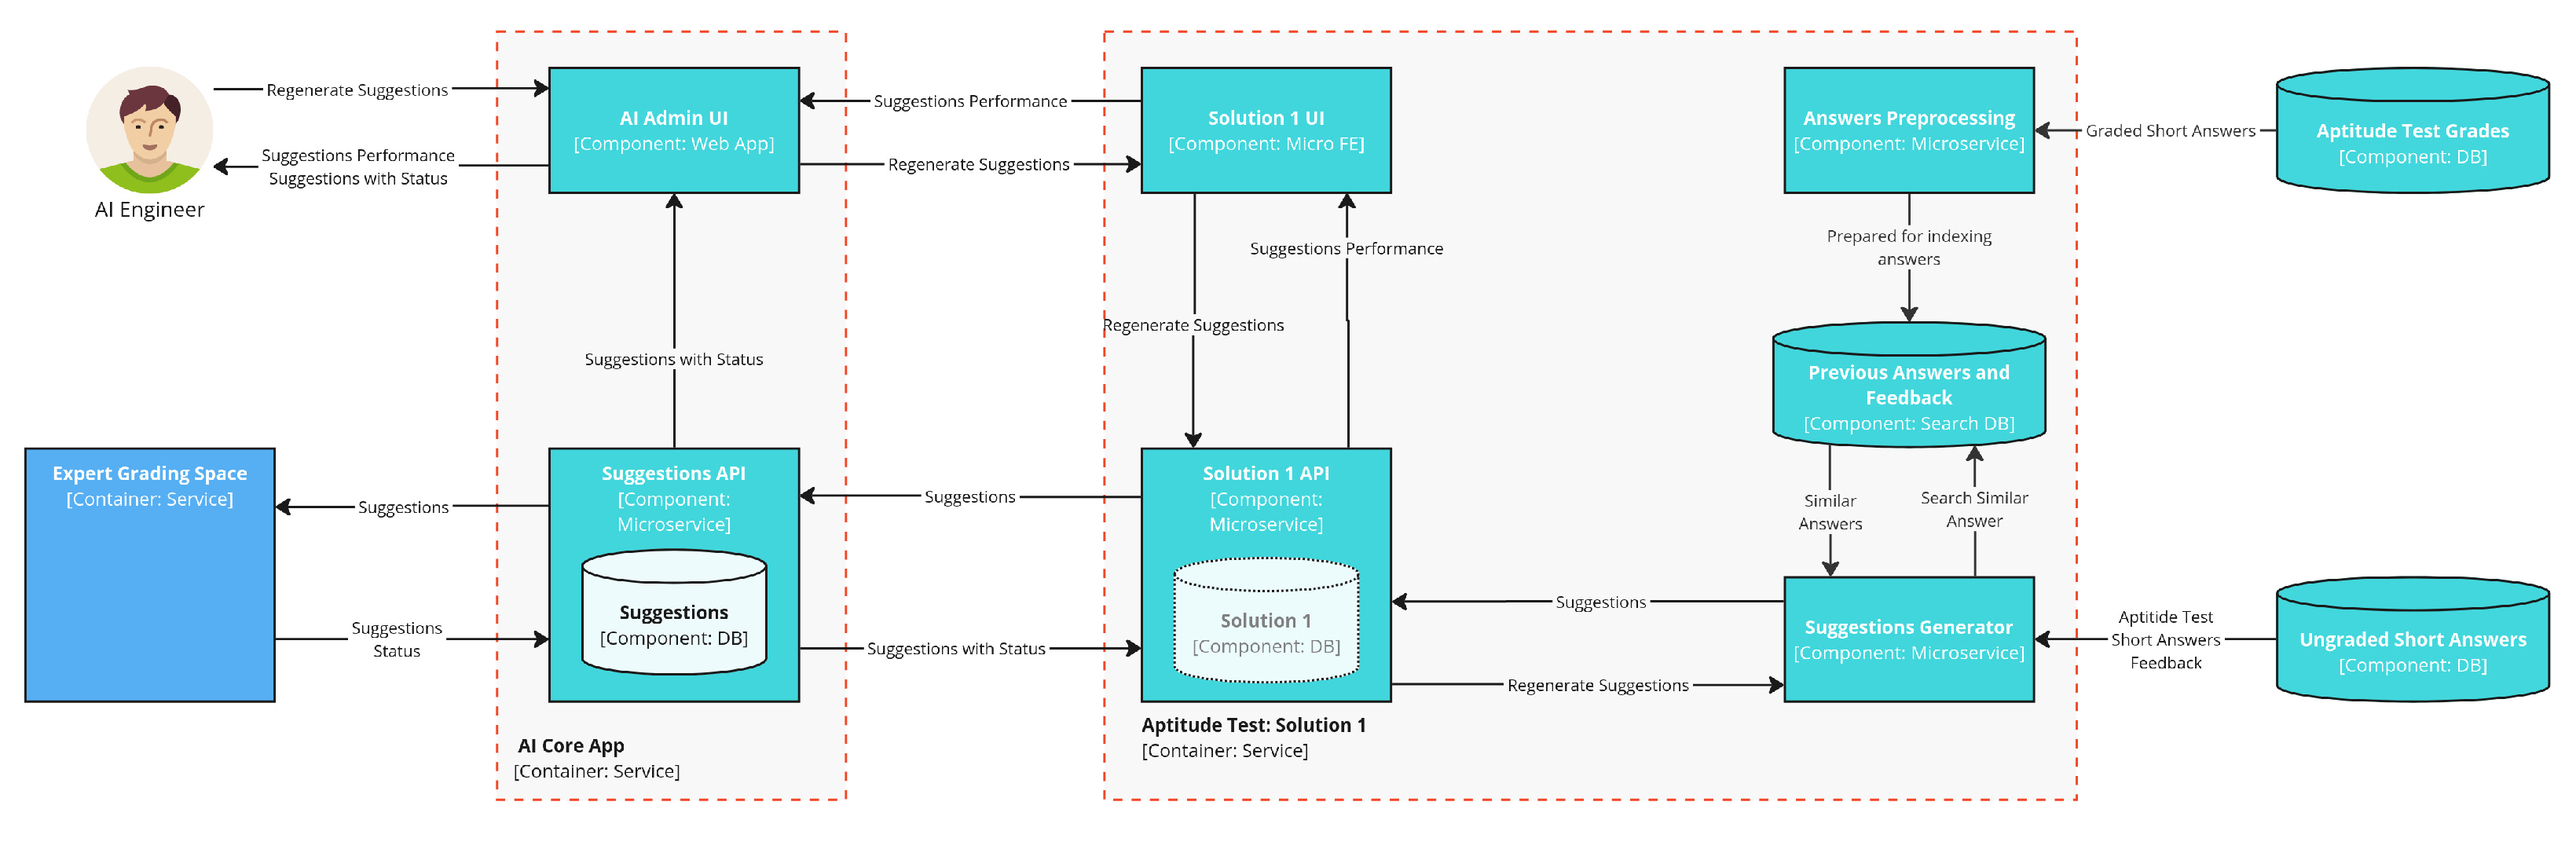
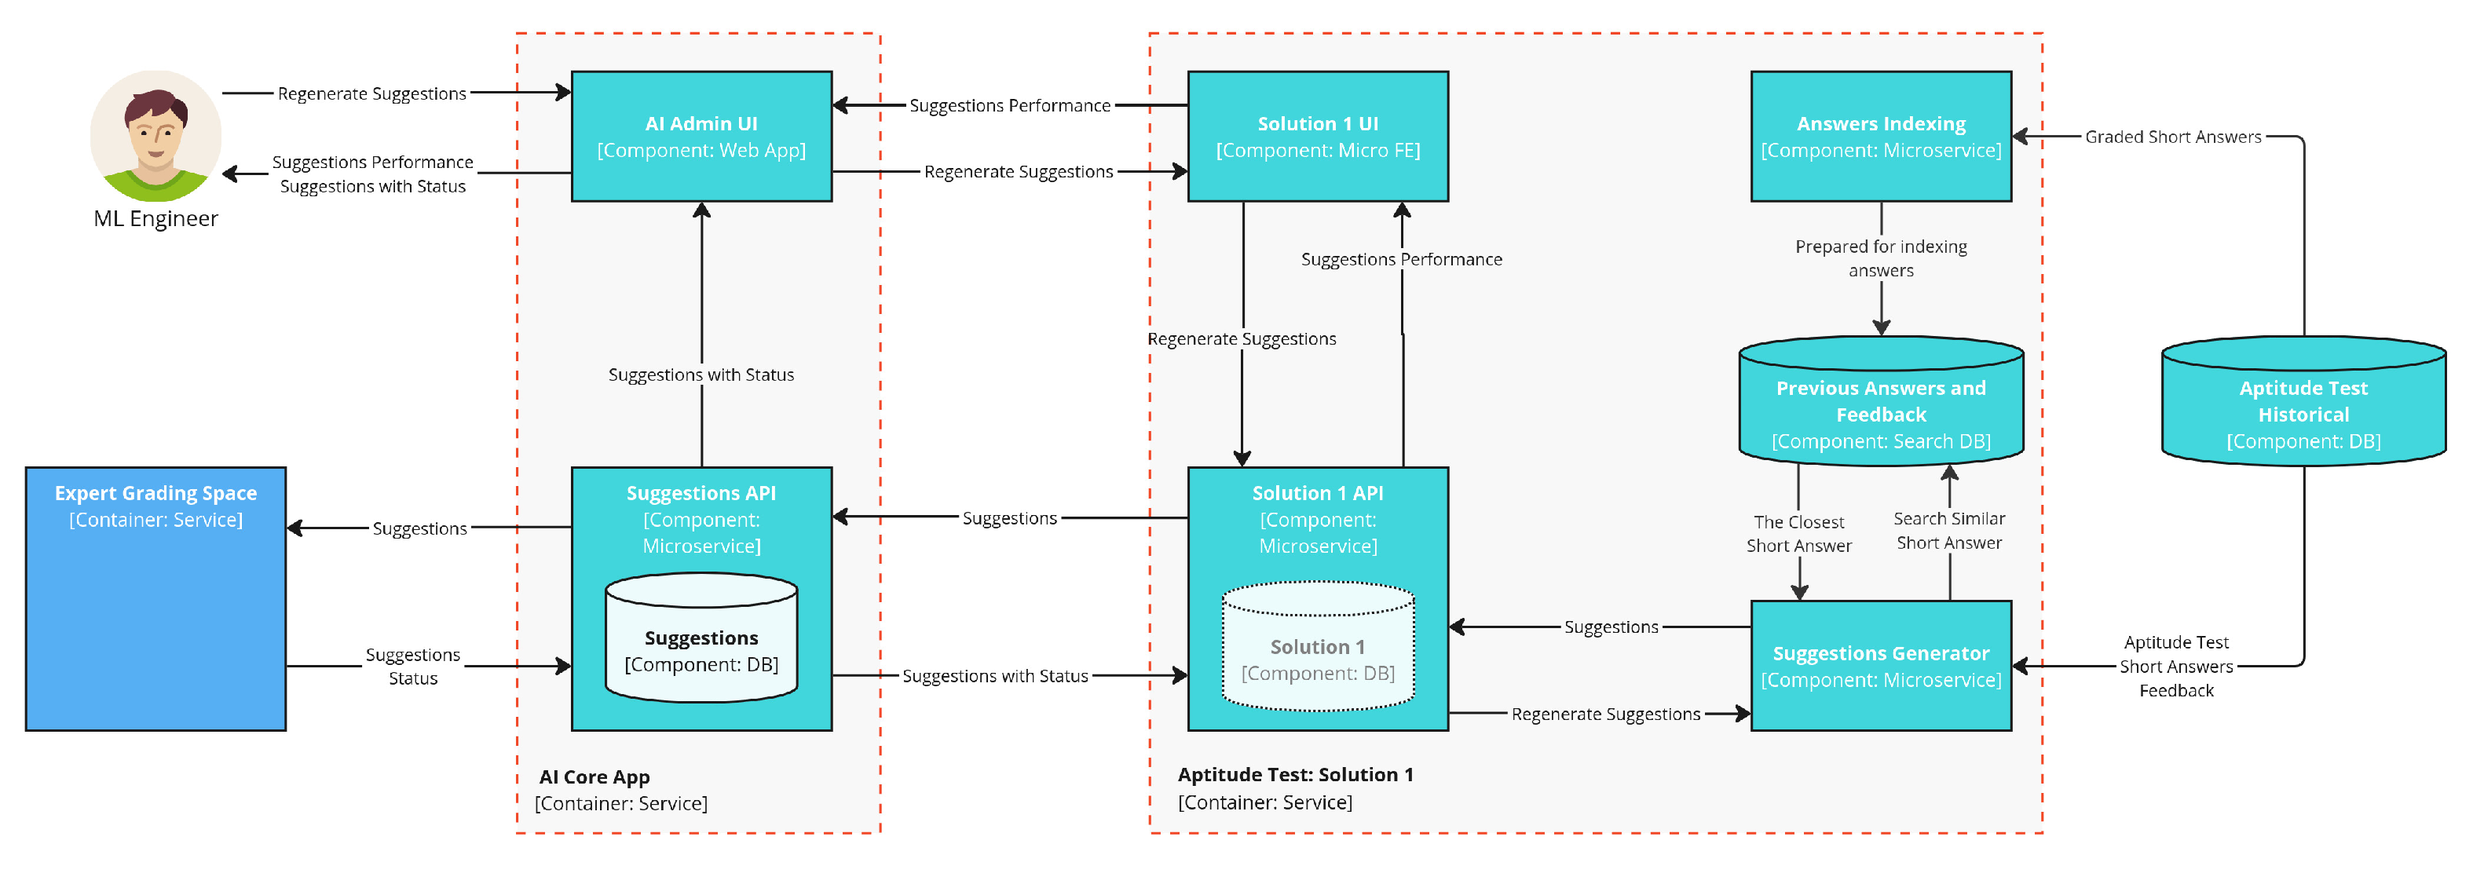
Solution 1: minor fixes

diff --git a/README.md b/README.md
@@ -746,24 +746,26 @@ Short-answer responses are typically concise and follow predictable patterns, ma
 
 The workflow describes an AI-powered grading workflow for short-answer responses, integrating various services, databases, and user interactions. Here's a step-by-step breakdown:
 
-1. **Submission & Preprocessing**
-   - Short-answer responses from the **Aptitude Test** are stored in the **Architecture Exam Historical DB**.
-   - The **Answers Preprocessing Microservice** prepares these responses for indexing.
-2. **Retrieving Similar Answers**
-   - The **Previous Answers and Feedback Search DB** indexes past graded answers.
-   - The **Suggestions Generator Microservice** searches for similar past responses and retrieves them for grading reference.
-3. **Generating Suggestions**
-   - The **Solution 1 API Microservice** processes retrieved answers and generates **grade & feedback suggestions** based on past similar answers.
-   - These suggestions are stored in the **Suggestions DB** and sent to the **Suggestions API Microservice**.
-4. **Expert Review & Refinement**
-   - Suggestions are sent to the **Expert Grading Space** for human validation.
+1. **Answer Indexing**
+
+   - Short-answer responses from the Aptitude Test with feedback and grades are stored in the **Aptitude Test Historical DB**.
+   - The **Answers Indexing** Microservice prepares these responses for indexing.
+   - The **Previous Answers and Feedback Search DB** indexes past graded answers in full-text search index.
+2. **Generating Suggestions**
+
+   - The **Suggestions Generator** microservice captures submitted ungraded short answers from ****Aptitude Test Historical** DB, searches for similar past responses and retrieves them for grading reference.
+   - These suggestions are stored in the **Suggestions** DB
+3. **Expert Review & Refinement**
+
+   - Suggestions are requested by the **Expert Grading Space** for human validation. **Solution 1 API** microservice fetches the suggestions from **Suggestions** db.
    - Experts review and adjust the suggestions, improving grading accuracy.
    - The **Suggestions API** updates suggestion statuses based on expert feedback.
-5. **AI Oversight & Continuous Improvement**
-   - The **AI Admin UI Web App** allows **AI Engineers** to monitor **suggestion performance** and request **regeneration of suggestions** if needed.
-   - Regenerated suggestions go back through the **Solution 1 UI** and **Solution 1 API** for processing.
-6. **Feedback Loop for Optimization**
-   - Validated grading decisions continuously improve the **search ranking and grading model**, enhancing the accuracy of future suggestions.
+4. **Continuous Improvement**
+
+   - The **AI Admin UI Web App** allows **ML Engineers** to monitor **suggestion performance** and request **regeneration of suggestions** if needed.
+5. **Feedback Loop for Optimization**
+
+   - Validated grading decisions continuously improve the search ranking and grading model, enhancing the accuracy of future suggestions.
 
 This workflow automates grading while incorporating expert oversight, ensuring efficiency, accuracy, and continuous improvement.
 
@@ -776,6 +778,7 @@ This workflow automates grading while incorporating expert oversight, ensuring e
 #### Definitions
 
 1. **Aptitude test feedback (Solution 1a Database)**: This database stores information about historical short answers (including their grades and feedback). The records are indexed for full-text search of short answer content.
+
    - **Aptitude test submission ID (PK, FK)** – Identifies short answer relation to an aptitude test submission.
    - **Question ID (PK, FK)** – Identifies which question of the aptitude test the short answer was submitted for.
    - **Question** – Stores the question the answer was submitted for.
@@ -794,21 +797,21 @@ The diagram presents a structured **workflow for AI-assisted grading of short-an
 
 1. **Suggestions Generation**
 
-   - The **AI Suggestions Generator Microservice** captures the submitted answer.
-   - The answer is **preprocessed** (cleaned up for better indexing).
-   - The system **retrieves similar past answers** from historical data.
-   - Based on the assessment history, the AI **suggests a grade and feedback**.
+   - The **AI Suggestions Generator** Microservice captures the submitted answer.
+   - The answer is preprocessed (cleaned up for better indexing).
+   - The system retrieves similar past answers from historical data.
+   - Based on the assessment history, the system suggests a grade and feedback.
 2. **Expert Grading Based on Suggestions**
 
-   - A **human expert** reviews the submitted answer along with AI-generated suggestions.
-   - The expert **grades the answer**, and accepts, updates or provide their own feedback, finalizing the answer score.
-   - The **graded aptitude test** is recorded.
-   - The **suggestion’s accuracy** is assessed, feeding back into the system for improvement.
+   - An expert architect reviews the submitted answer along with AI-generated suggestions.
+   - The expert grades the answer, and accepts, updates or provide their own feedback.
+   - The graded aptitude test is recorded.
+   - The suggestion’s accuracy is assessed, feeding back into the system for improvement.
 3. **Registering New Grade and Feedback**
 
-   - The assigned **grade and feedback are captured**.
+   - The assigned grade and feedback are captured.
    - The answer is preprocessed for indexing.
-   - The **indexed feedback** is stored in the system, enhancing future AI grading accuracy.
+   - The indexed feedback is stored in the system, enhancing future AI grading accuracy.
 
 This **continuous feedback loop** ensures that the AI grading system improves over time, refining its ability to suggest accurate grades and relevant feedback.
 
@@ -816,13 +819,13 @@ This **continuous feedback loop** ensures that the AI grading system improves ov
 
 ### Idea
 
-While **Solution 1a** efficiently automates grading using **full-text search**, it is limited by keyword-based matching, which may overlook nuanced differences in student responses. **Solution 1b** addresses this by leveraging **LLMs and vector search** to improve **grading accuracy, feedback relevance, and adaptability over time**.
+While [Solution 1a](#aptitude-test-solution-1a---text-search) efficiently automates grading using full-text search, it is limited by keyword-based matching, which may overlook nuanced differences in student responses. **Solution 1b** addresses this by leveraging LLMs and vector search to improve grading accuracy, feedback relevance, and adaptability over time.
 
-Since short answers often express similar ideas in varied ways, relying on exact word matches can lead to inconsistent grading. By using an **LLM for preprocessing**, responses are **standardized and semantically enriched**, ensuring that meaning—not just wording—is captured. A **vector database** further improves retrieval by **matching conceptually similar responses**, even when phrased differently.
+Since short answers often express similar ideas in varied ways, relying on exact word matches can lead to inconsistent grading. By using an LLM for preprocessing, responses are standardized and semantically enriched, ensuring that meaning—not just wording—is captured. A vector database further improves retrieval by matching conceptually similar responses, even when phrased differently.
 
-Beyond improving search, **Solution 1b enhances feedback quality**. Instead of simply reusing past feedback, an **LLM synthesizes suggestions**, adapting them to the specific nuances of each answer. This ensures that candidates receive **more precise, context-aware feedback**, rather than generic comments.
+Beyond improving search, Solution 1b enhances feedback quality. Instead of simply reusing past feedback, an LLM synthesizes suggestions, adapting them to the specific nuances of each answer. This ensures that candidates receive more precise, context-aware feedback, rather than generic comments.
 
-By continuously refining grading suggestions based on expert validation, this approach **creates a learning system**—where both retrieval accuracy and feedback generation improve over time. As a result, grading becomes **more consistent, efficient, and precise** and **feedback** becomes more relevant for each submission.
+By continuously refining grading suggestions based on expert validation, this approach creates a learning system—where both retrieval accuracy and feedback generation improve over time. As a result, grading becomes more consistent, efficient, and precise and feedback becomes more relevant for each submission.
 
 ### Context Viewpoint
 
@@ -834,26 +837,26 @@ By continuously refining grading suggestions based on expert validation, this ap
 
 The diagram illustrates an **AI-assisted grading workflow** using **vector search** and **LLMs** to enhance the grading process for short-answer responses.
 
-1. **Answer Preprocessing**
+1. **Answer Indexing**
 
-   - The candidate’s submitted answer is first **preprocessed** by the **Answers Preprocessing Microservice**, which prepares the text (using LLM if needed) and converts the answer into a **vectorized format** (embedding) suitable for comparison in the vector database. This step ensures that answers are represented semantically, rather than just as text.
-2. **Similar Answer Retrieval**
+   - All short answer feedbacks (historical and recently graded) are stored in vector database indexed by embedding of the candidate's preprocessed short answer.
+   - Before vectorization, the short answer is preprocessed to improve search quality.
+   - The candidate’s submitted answer is preprocessed by the **Answers Preprocessing** microservice, which prepares the text (using LLM if needed) and converts the answer into a vectorized format (embedding) suitable for comparison in the vector database. This step ensures that answers are represented semantically, rather than just as text.
+2. **Feedback and Grade Generation**
 
-   - The **preprocessed answer** is then used to search for **similar answers** stored in the **Previous Answers and Feedback Vector DB**. The system retrieves **1-3 similar answers** from previous test submissions along with their corresponding grades and feedback. This semantic search allows the system to find responses that are conceptually similar, even if wordings differ.
-3. **Feedback and Grade Generation**
+   - Ungraded short answers are captured by the **Suggestions Generator** microservice.
+   - Firstly the captured answers are preprocessed via **Preprocessing** microservice. The preprocessed answer is then vectorized and used to search for similar answers stored in the **Previous Answers and Feedback Vector DB**.
+   - The system retrieves a few similar answers from previous test submissions along with their corresponding grades and feedback. This semantic search allows the system to find responses that are conceptually similar, even if wordings differ.
+   - The **Suggestions Generator** Microservice analyzes the retrieved similar answers and their feedback to generate grade and feedback suggestions for the current answer. These suggestions are tailored based on the closest matches from the historical data.
+   - The similar short answers with grades and feedback are passed to an LLM, which combines them into a final grade and synthesized feedback. This process leverages the model’s ability to generate a coherent and relevant response, ensuring the feedback is contextually appropriate and insightful.
+3. **Expert Grading and Review**
 
-   - The **Suggestions Generator Microservice** analyzes the retrieved similar answers and their feedback to **generate grade and feedback suggestions** for the current answer. These suggestions are tailored based on the closest matches from the historical data.
-4. **LLM-Based Synthesis**
+   - The generated grade suggestion and feedback are then sent to the **Expert Grading Space** for review. Experts (or designated experts) can approve or adjust the suggestions provided by the system, improving grading accuracy and ensuring that the feedback meets the required standards.
+4. **Continuous Improvement**
 
-   - The **preprocessed answer** is passed to an **external LLM (Large Language Model)**, which combines the **similar answers** and **feedback** into a **final synthesized answer and feedback**. This process leverages the model’s ability to generate a coherent and relevant response, ensuring the feedback is contextually appropriate and insightful.
-5. **Expert Grading and Review**
+   - The system tracks the performance of suggestions, feeding back into the process to improve future suggestions. The ML Engineer monitors suggestion accuracy, ensuring the system continues to learn and refine its outputs over time.
 
-   - The generated grade suggestion and feedback are then sent to the **Expert Grading Space** for review. Experts (or designated experts) can **approve or adjust** the suggestions provided by the system, improving grading accuracy and ensuring that the feedback meets the required standards.
-6. **Continuous Improvement**
-
-   - The system tracks the **performance of suggestions**, feeding back into the process to improve future suggestions. The **AI Engineer** monitors **suggestion accuracy** and adjusts **grading criteria prompts** as necessary, ensuring the system continues to learn and refine its outputs over time.
-
-This workflow combines **semantic vector search** and **LLM-based synthesis** to automate and optimize grading, while maintaining expert oversight to ensure quality and accuracy. The result is a more **efficient, consistent, and context-aware grading process**.
+This workflow combines semantic vector search and LLM-based synthesis to automate and optimize grading, while maintaining expert oversight to ensure quality and accuracy. The result is a more efficient, consistent, and context-aware grading process.
 
 ### Informational Viewpoint
 
@@ -864,6 +867,7 @@ This workflow combines **semantic vector search** and **LLM-based synthesis** to
 #### Definitions
 
 1. **Aptitude test feedbacks (Solution 1b Database)**: Stores information about historical short answers (including their grades and feedbacks). The records are indexed for full-text search of short answer content.
+
    - **Aptitude test submission ID (PK, FK)** – Identifies short answer relation to an aptitude test submission.
    - **Question ID (PK, FK)** – Identifies which question of the aptitude test the short answer was submitted for.
    - **Answer embedding** – Vector representation of the short answer allowing to easily find semantically similar short answers.
@@ -875,30 +879,34 @@ This workflow combines **semantic vector search** and **LLM-based synthesis** to
 
 > *Describes how the system will operate to fulfill the required functionality.*
 
-![Diagram](future_state/solution_1b/operational_viewpoint.png)
+This diagram describes the workflow if indexing short answer feedbacks and grades based on the short answer text.
+
+![Diagram](future_state/solution_1b/operational_viewpoint_index.png)
+
+This diagram illustates the workflow of generating grading and feedback suggestions based on grades and feedbacks of semantically similar short answers.
+
+![Diagram](future_state/solution_1b/operational_viewpoint_suggest.png)
 
 #### Workflow
 
-1. **Suggestions Generation**
+1. **Indexing Grades and Feedback**
+
+   - **Capture the grade and feedback**: The the final **grade** and **feedback** provided by expert are ingested from **Aptitude Test Historical** database.
+   - **Preprocess the answer**: After grading, the short answer is preprocessed to improve the vectorization results. LLM can be used at this step to summarize too long answers, classify the answer, etc.
+   - **Vectorize the preprocessed answer**: The final preprocessed answer is then vectorized for indexing in the system.
+   - **Indexed grades and feedback**: The feedback is stored in the vector database, making it available for future suggestions and improving the quality of feedback generation for subsequent responses.
+2. **Suggestions Generation**
 
    - **Capture the answer**: The candidate's answer is captured by the **AI Suggestions Generator** component.
-   - **Preprocess the answer**: The answer is passed to the **Answers Preprocessing Microservice**, where it is converted into a **vectorized format** (embedding) suitable for comparison in the search process.
+   - **Preprocess the answer**: The answer is passed to the **Preprocessing** Microservice to prepare for vectorization,
+   - **Vectorize the preprocessed answer**, the preprocessed answer is converted into a **vectorized format** (embedding) suitable for comparison in the search process.
    - **Lookup similar answers**: The system then searches for **similar answers** from previously graded responses. This search is based on the semantic similarity of the vectorized answer.
-   - **Generate suggestions**: The **AI Suggestions Generator** uses the similar answers' feedback to generate a **suggested grade and feedback** based on historical assessments. These suggestions are intended to guide the expert grader.
-2. **Expert Grading Based on Suggestions**
+   - **Generate suggestions**: The **AI Suggestions Generator** uses the similar answers' feedback and grades to generate a suggested grade and feedback based on historical assessments. These suggestions are intended to guide the expert grader.
+3. **Expert Grading Based on Suggestions**
 
    - **Review the answer and suggestions**: The **Expert / Designated Expert** reviews the candidate's answer along with the generated suggestions (grade and feedback).
-   - **Grade the answer**: The expert assigns a grade to the answer based on their review of both the answer and the suggested feedback.
+   - **Grade the answer**: The expert assigns a grade to the answer based on their review of both the answer and the suggested grade and feedback.
    - **Graded Aptitude test**: The graded answer is recorded, capturing the expert's evaluation.
-3. **Registering New Grade and Feedback**
-
-   - **Preprocess the answer**: After grading, the answer is again preprocessed to standardize the feedback and ensure consistency.
-   - **Capture the grade and feedback**: The expert inputs the final **grade** and **feedback**.
-   - **Vectorize the preprocessed answer**: The final preprocessed answer is then vectorized for **indexing** in the system.
-   - **Indexed feedback**: The feedback is indexed in the system, making it available for future suggestions and improving the quality of feedback generation for subsequent responses.
-4. **Continuous Improvement**
-
-- **Suggestion accuracy monitoring**: The accuracy of the generated suggestions is monitored and evaluated, feeding back into the system for continuous improvement in grading and feedback suggestions.
 
 This workflow integrates AI and human expertise, ensuring the grading process is efficient while maintaining high-quality, personalized feedback for each student. The combination of **vectorized search** for semantic similarity and **LLM-based feedback synthesis** helps enhance grading consistency and precision.
 
